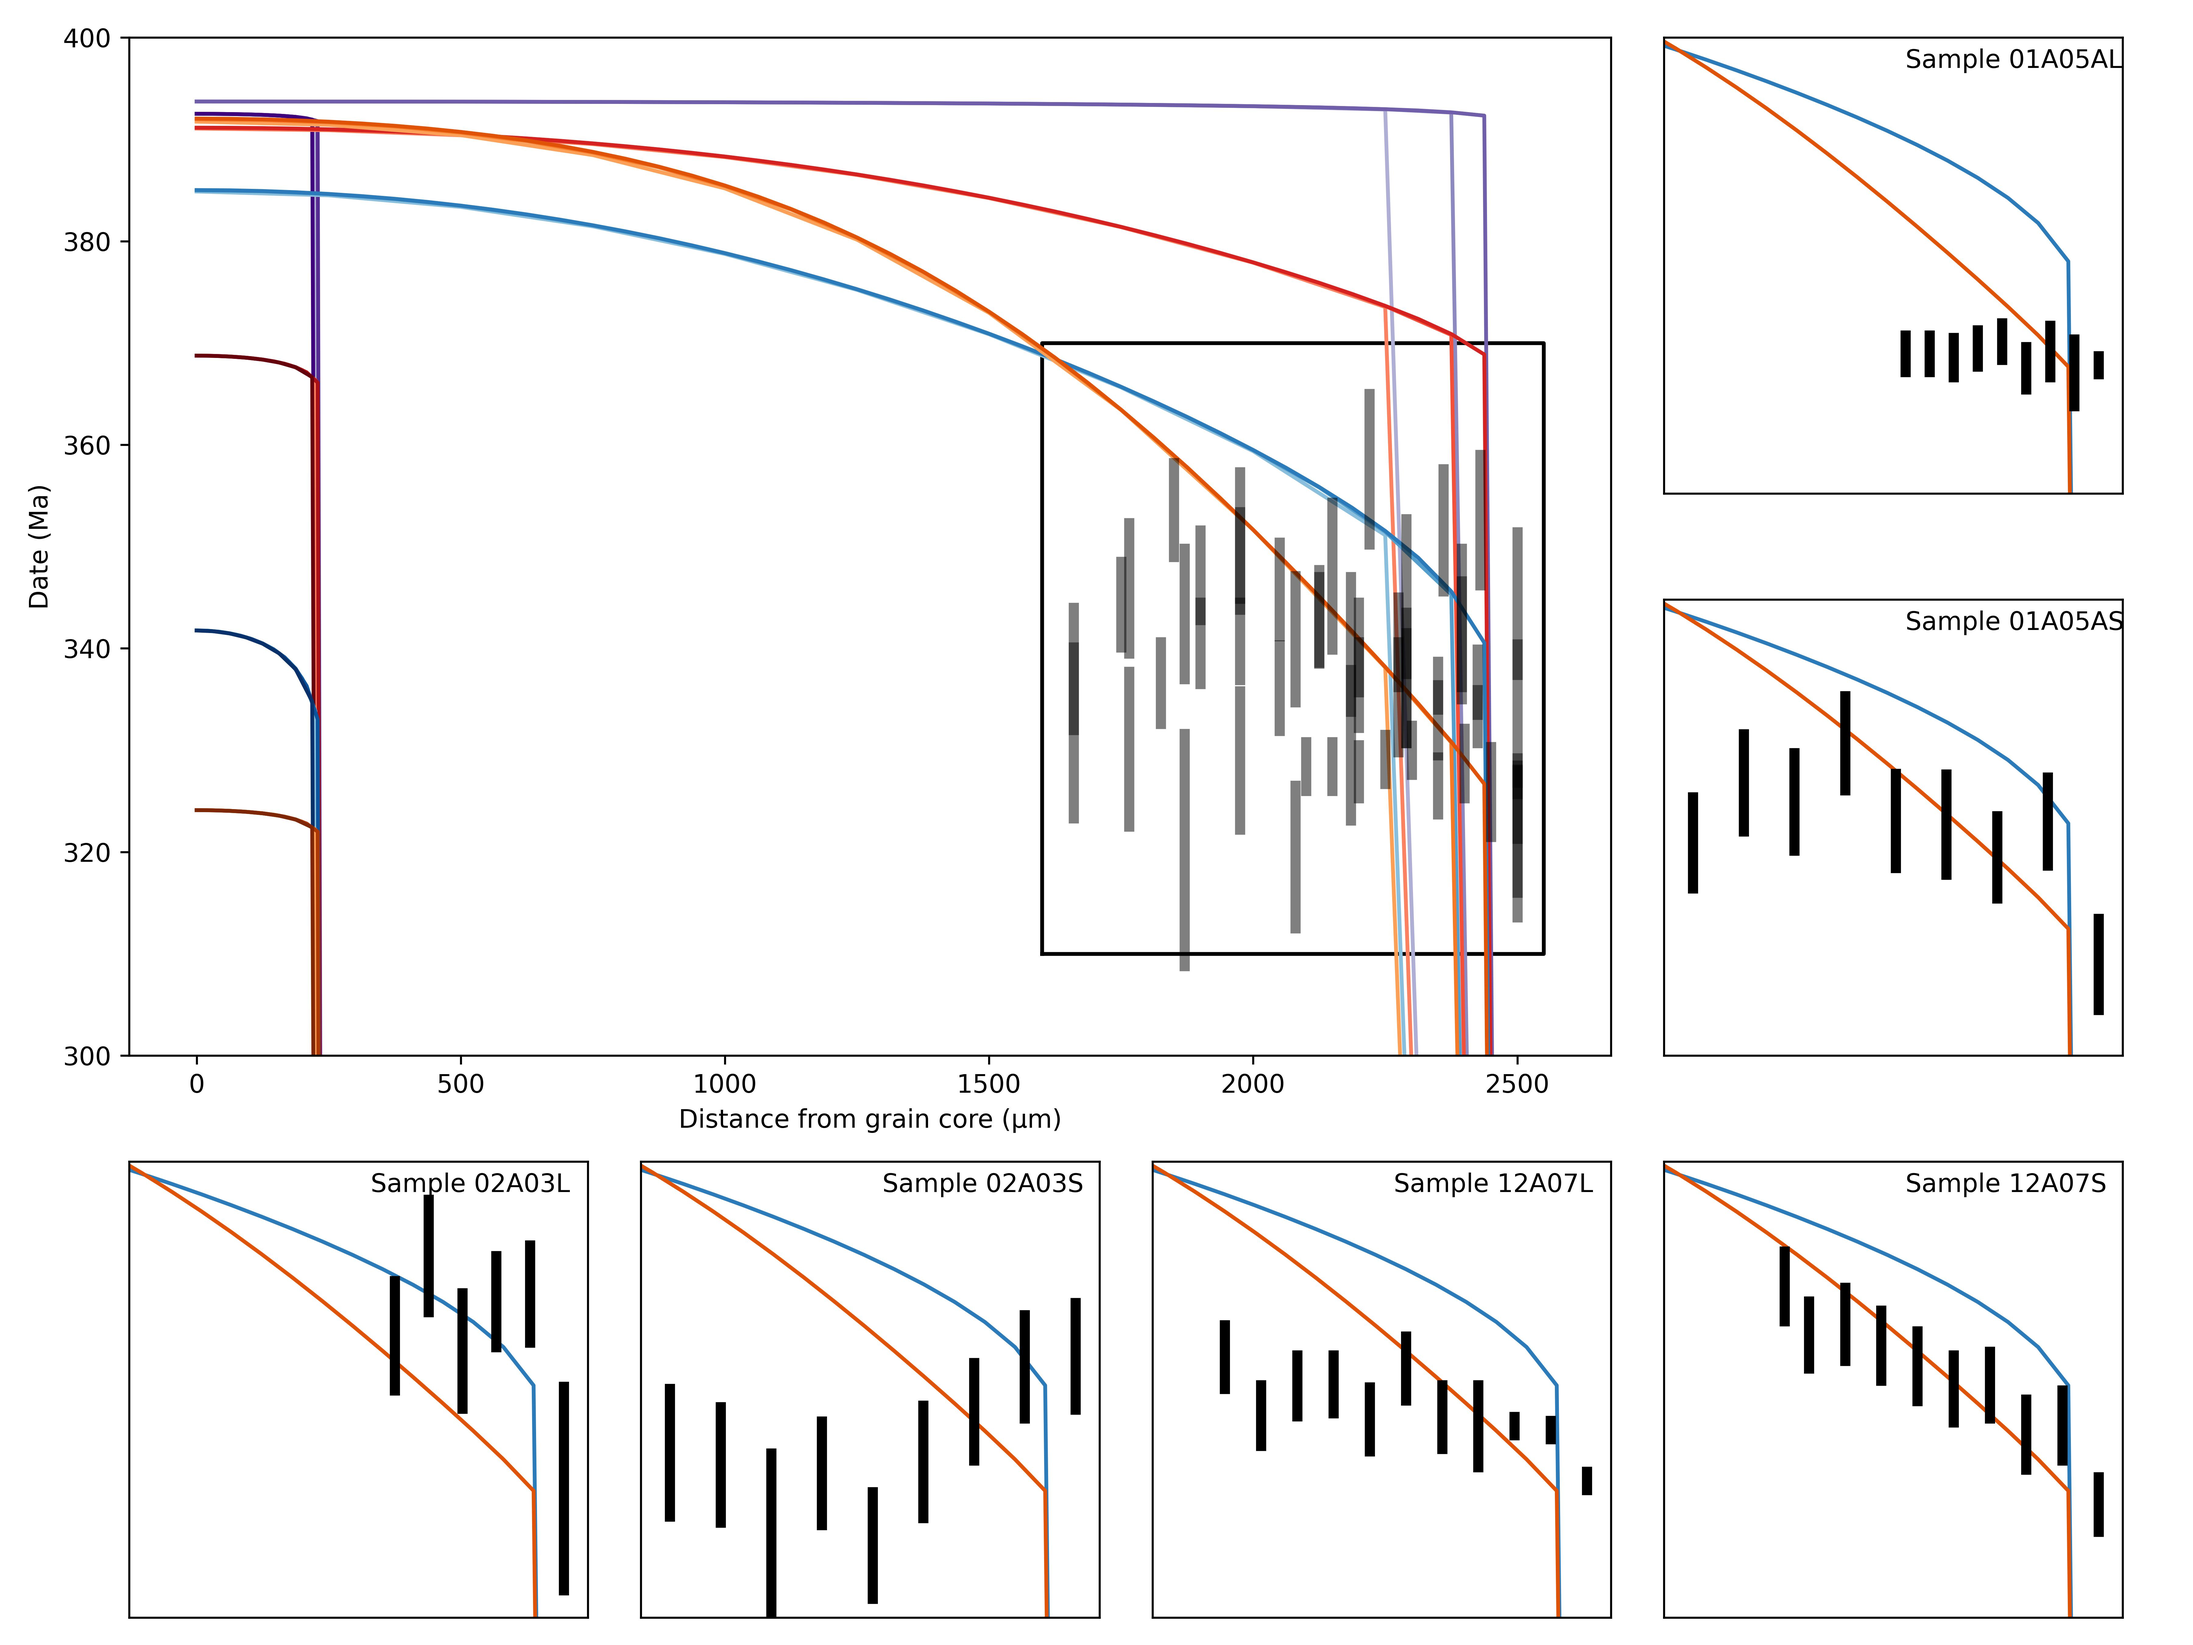
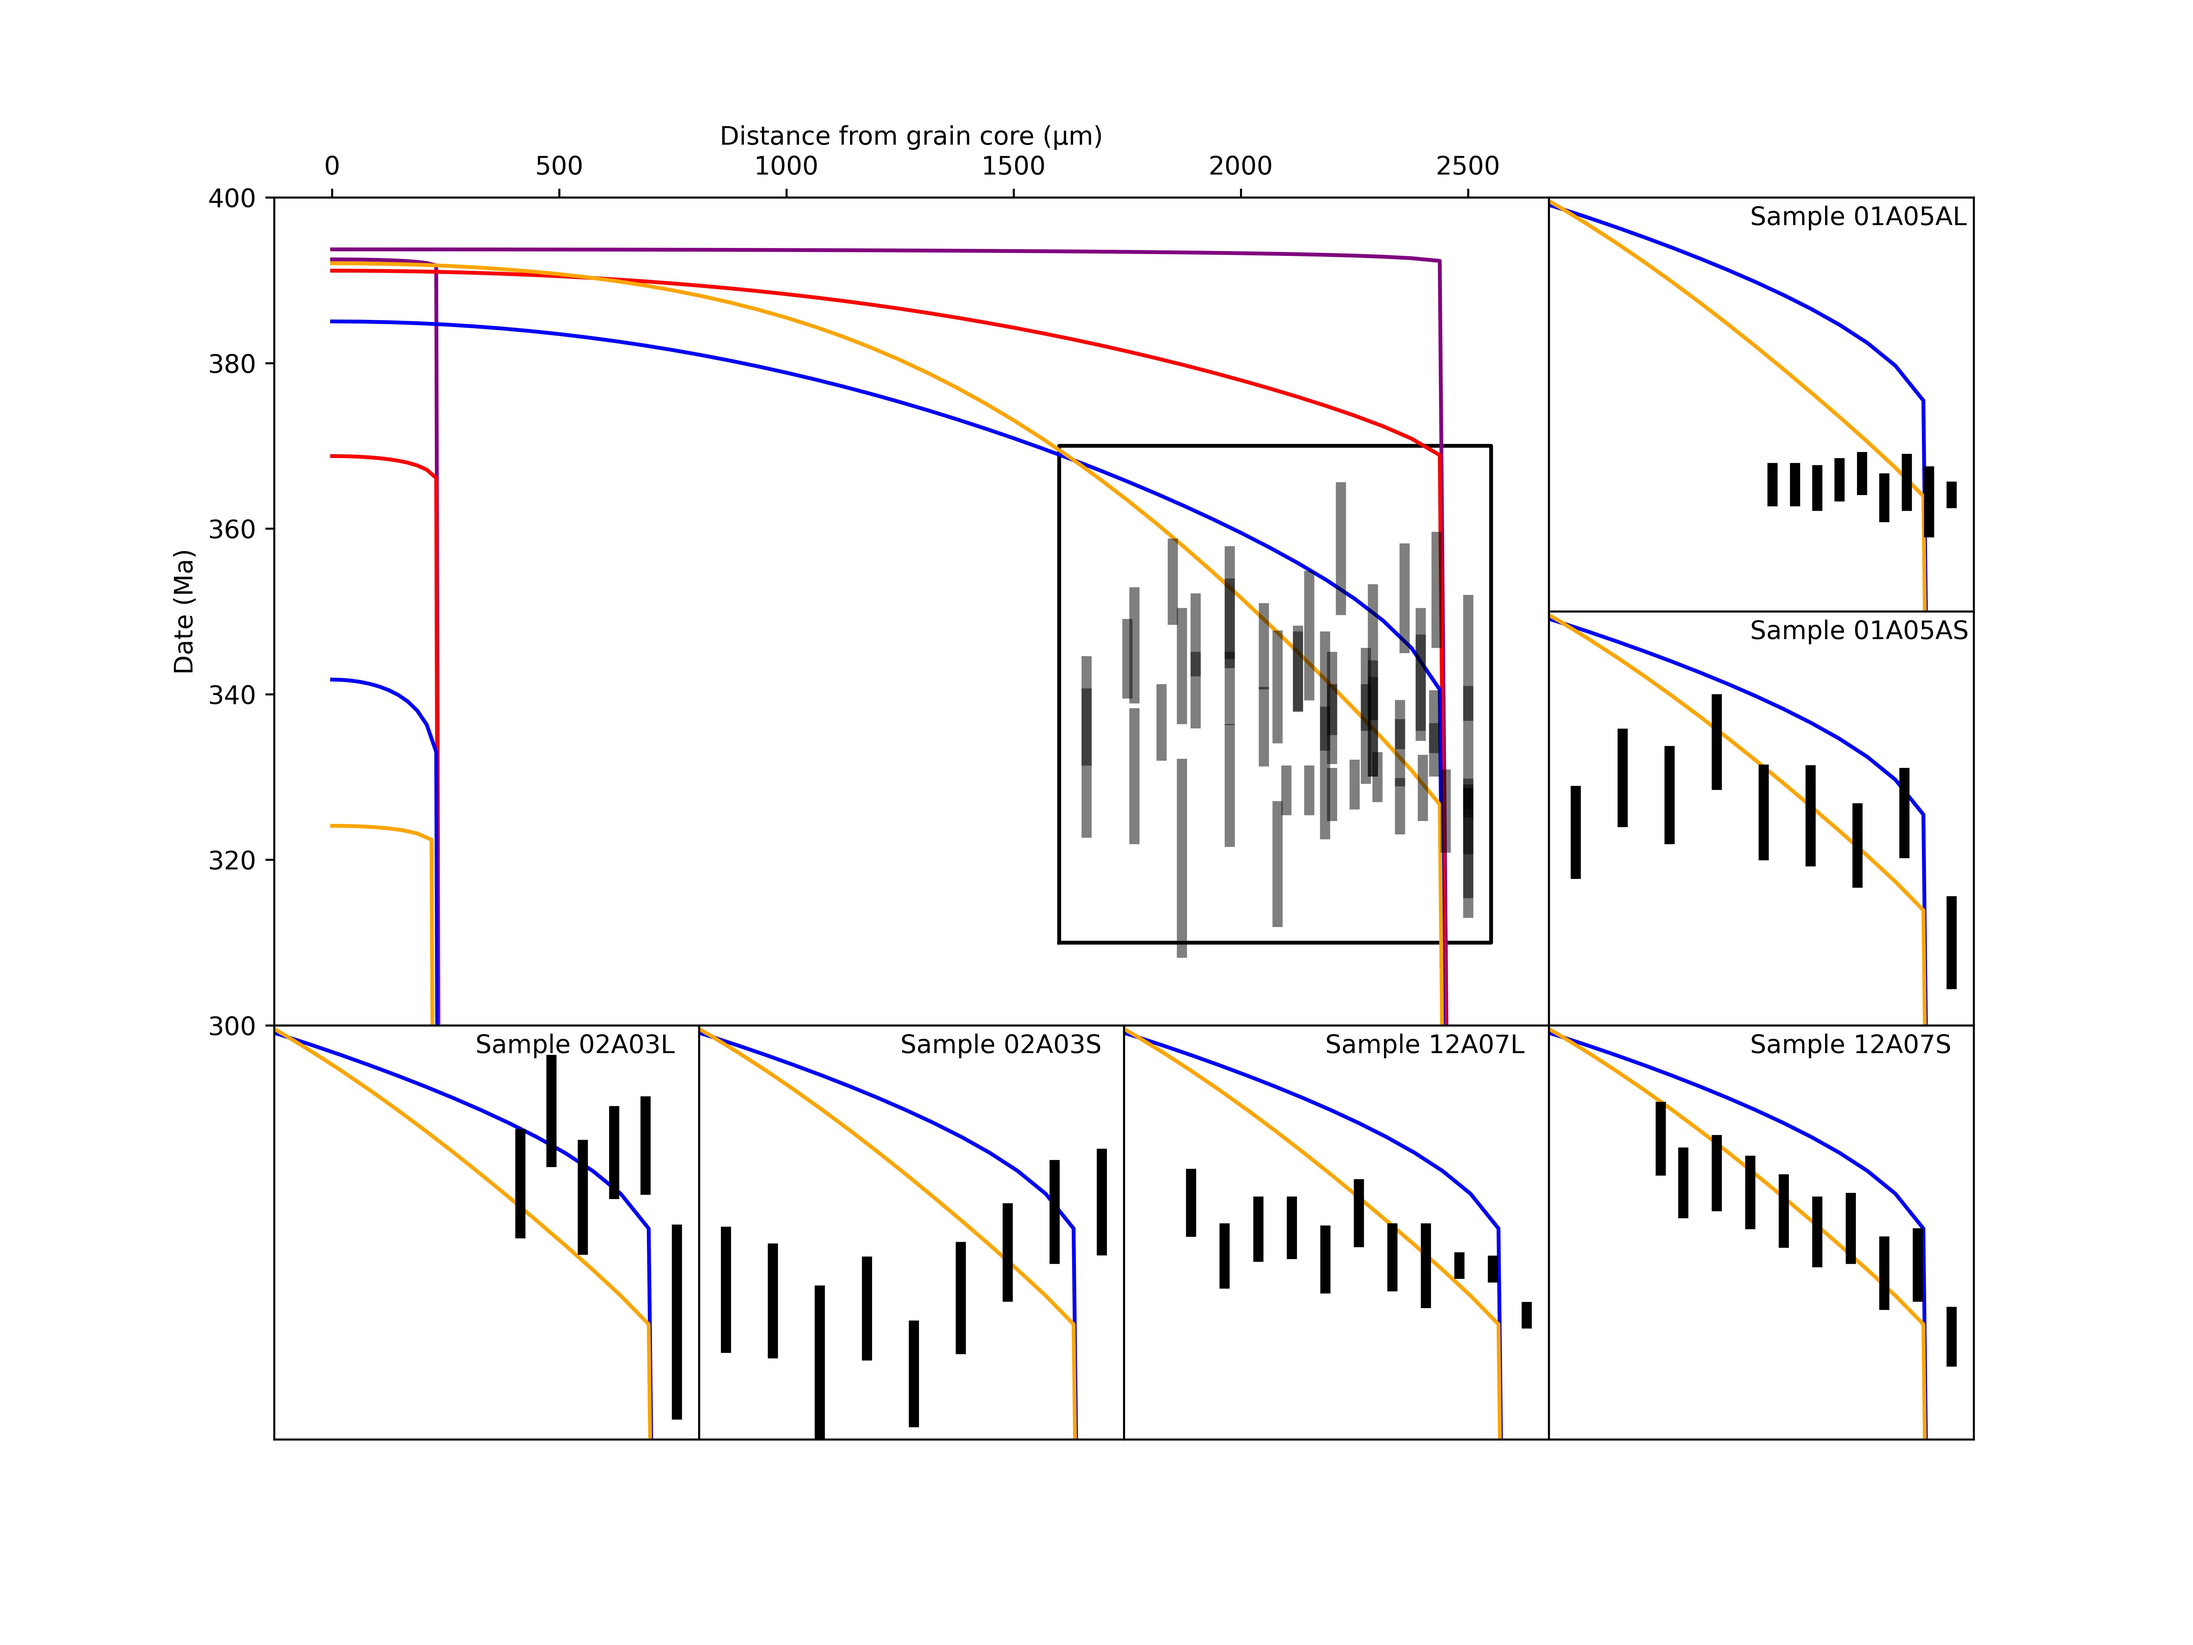
eliminated gaps in figure, showing single mesh size model, added Ar plateau data

diff --git a/Ar_diff_7plate.py b/Ar_diff_7plate.py
@@ -13,12 +13,18 @@ import numpy as np
 #importing data
 dif_data = pd.read_csv("Data\Ar_Diffusion.csv")
 spot_data = pd.read_csv("Data\Spot_dates.csv")
+dif_data = dif_data.query("Mesh == 40 or Mesh == 12")
 
 #Building a list full of colourmap functions to be used later 
-cmaps = [plt.cm.Purples,
-         plt.cm.Reds,
-         plt.cm.Blues,
-         plt.cm.Oranges]
+# cmaps = [plt.cm.Purples,#If commented out we will just use single colours for one plotted mesh size
+#          plt.cm.Reds,
+#          plt.cm.Blues,
+#          plt.cm.Oranges]
+
+colours = ['purple',
+           'red',
+           'blue',
+           'orange']
 
 n = len(dif_data['Mesh'].unique())+3
 
@@ -48,6 +54,11 @@ for i in range(7):
         ax.set_xlabel('Distance from grain core (μm)')
         ax.set_ylabel('Date (Ma)')
         
+        #Setting x axis to the top
+        # ax.tick_params(axis = 'x', top = True, labeltop = True, bottom = False, labelbottom = False)
+        ax.xaxis.tick_top()  
+        ax.xaxis.set_label_position('top')
+        
         #iterating over each scenario so the colourmaps line up nicely
         # for j in dif_data["Scenario"].unique(): #could use this line, but I think having a number will help more.
         for j in range(4):
@@ -55,13 +66,14 @@ for i in range(7):
             
             #Making a colourmap for each scenario based on mesh number. The plus three is to make sure no colour is too pale to discern
             #n = len(dif_data.query("Scenario == @scenario")['Mesh'].unique())+3
-            colours = cmaps[j](np.linspace(0, 1, n))
+            #colours = cmaps[j](np.linspace(0, 1, n))#Commented out
             
             #iterating over each mesh in a scenario so the colours match nicely.
             #This is overcomplicated because there is only partial sharing of mesh sizes across grain sizes
             for k in range(len(dif_data.query("Scenario == @scenario")['Mesh'].unique())):
                 mesh = dif_data.query("Scenario == @scenario")['Mesh'].unique()[k]
-                colour = colours[k+3]
+                #colour = colours[k+3]
+                colour = colours[j]
                 
                 #Final iteration over "Identifier" which is just the grain size oddly formatted.                
                 for l in dif_data.query("Scenario == @scenario and Mesh == @mesh")['Identifier'].unique():
@@ -85,7 +97,7 @@ for i in range(7):
         ax.set_ylim(310, 370)
         sample = spot_data['Sample'].unique()[i-1]
         #ax.text(1630, 312, 'Sample '+sample)
-        ax.text(2100, 366, 'Sample '+sample)
+        ax.text(2050, 366, 'Sample '+sample)
         ax.get_xaxis().set_ticks([])
         ax.get_yaxis().set_ticks([])
         
@@ -94,14 +106,16 @@ for i in range(7):
         model_4 = dif_data.query("Scenario == 4 and Mesh == 40")
         
         #Setting colours for the models
-        colours_3 = cmaps[2](np.linspace(0, 1, n))
-        colours_4 = cmaps[3](np.linspace(0, 1, n))
-        colour_3 = colours_3[5]
-        colour_4 = colours_4[5]
+        # colours_3 = cmaps[2](np.linspace(0, 1, n))
+        # colours_4 = cmaps[3](np.linspace(0, 1, n))
+        # colour_3 = colours_3[5]
+        # colour_4 = colours_4[5]
         
         #plotting the Ar diffusion models
-        ax.plot(model_3['um'], model_3['Apparent_Age'], color = colour_3)
-        ax.plot(model_4['um'], model_4['Apparent_Age'], color = colour_4)
+        # ax.plot(model_3['um'], model_3['Apparent_Age'], color = colour_3)
+        # ax.plot(model_4['um'], model_4['Apparent_Age'], color = colour_4)
+        ax.plot(model_3['um'], model_3['Apparent_Age'], color = colours[2])
+        ax.plot(model_4['um'], model_4['Apparent_Age'], color = colours[3])
         
         #Plotting individual spot data
         temp = spot_data.query('Sample == @sample')
@@ -111,6 +125,10 @@ for i in range(7):
             y = temp['Age'][j]
             y_err = temp['error_1sigma'][j]*2
             ax.plot([x, x], [y+y_err, y-y_err], color = 'k', linewidth = 4.0)
-            
-plt.tight_layout()
+     
+#Final formatting
+plt.subplots_adjust(wspace=0, hspace = 0)
+#plt.tight_layout()
+
+#saving the figure
 plt.savefig('Output/7_plate/diffusion_fig.jpg', dpi=600)
